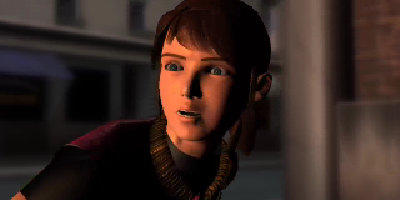
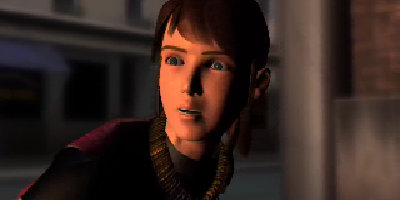
Add Claire's face to the FMV comparisons

diff --git a/docs/_pages/re2.md b/docs/_pages/re2.md
@@ -68,7 +68,7 @@ gallery_do:
 fmvs:
   - /fmvs/FMV_Birkin
   - /fmvs/FMV_Pistol
-  # - /fmvs/FMV_Claire
+  - /fmvs/FMV_Claire
   - /fmvs/FMV_RPD
   - /fmvs/FMV_Explosion
 
